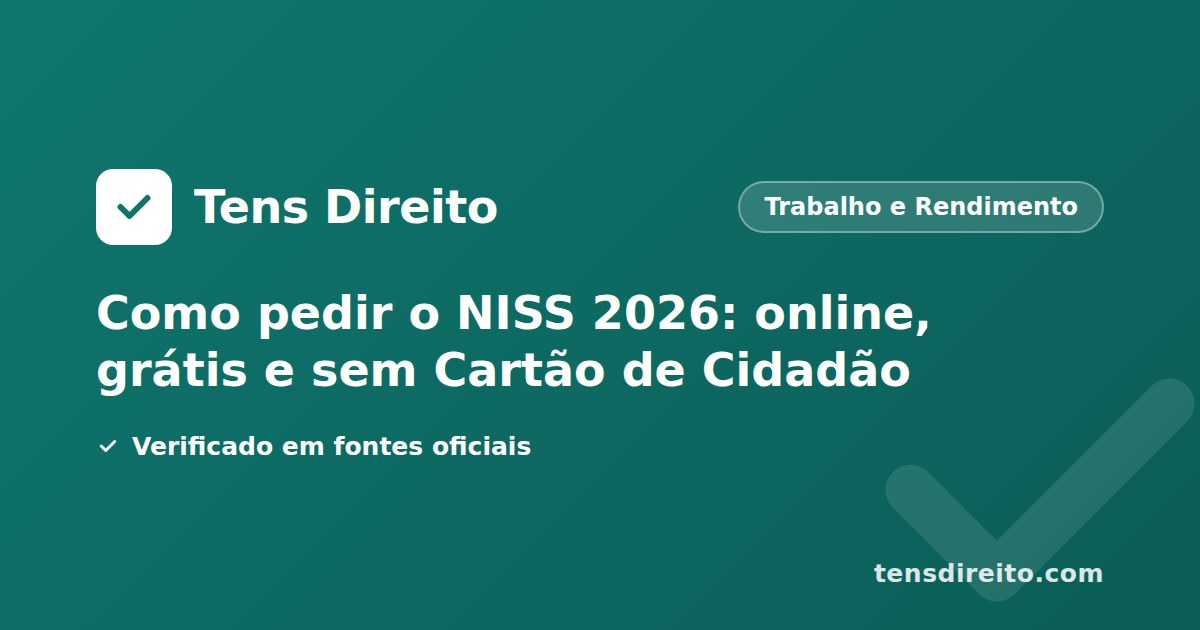
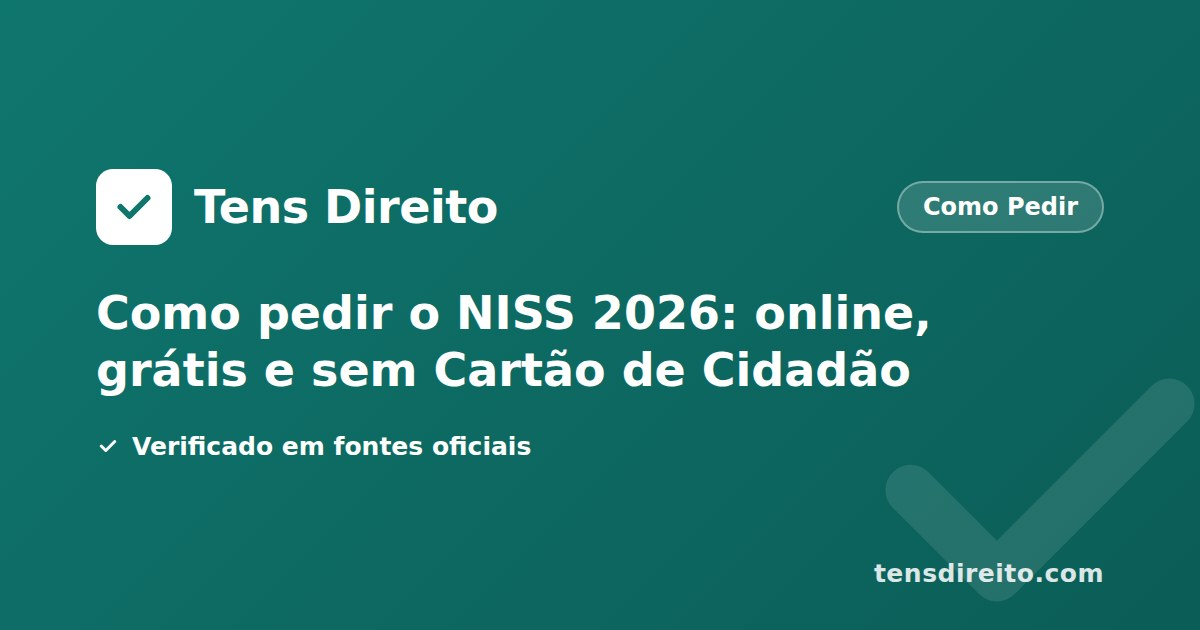
Migra como-pedir-niss.html e declaracao-situacao-contributiva.html para o cluster Como Pedir
Ambas passam de "Trabalho e Rendimento" para "Como Pedir" em
data/clusters.json — breadcrumb visível, JSON-LD BreadcrumbList,
CLUSTER-BADGE, RELACIONADOS e imagem OG (chip do cluster) actualizados.
As duas já tinham o bloco "Para que vais precisar disto"-equivalente
(SPEC secção 5). p/trabalho-rendimento.html perde as 2 páginas do seu
PILLAR-LISTA/PILLAR-JSONLD (8→6 itens), regenerado automaticamente por
sincronizar_clusters.py.

Changed region(s): [[0.6167, 0.2714, 0.8942, 0.3921]]

diff --git a/declaracao-situacao-contributiva.html b/declaracao-situacao-contributiva.html
@@ -164,8 +164,8 @@
       {
         "@type": "ListItem",
         "position": 2,
-        "name": "Trabalho e Rendimento",
-        "item": "https://tensdireito.com/p/trabalho-rendimento.html"
+        "name": "Como Pedir",
+        "item": "https://tensdireito.com/p/como-pedir.html"
       },
       {
         "@type": "ListItem",
@@ -291,6 +291,7 @@ footer a{color:#5C6770}
         <a href="/calendario-pagamentos-seguranca-social.html">📅 Calendário</a>
         <a href="/simuladores.html">🧮 Simuladores</a>
         <a href="/documentos.html">📄 Documentos</a>
+        <a href="/p/como-pedir.html">🔑 Como Pedir</a>
         <a href="/noticias.html">Notícias</a>
       </div>
 
@@ -326,6 +327,7 @@ footer a{color:#5C6770}
       <a href="/calendario-pagamentos-seguranca-social.html">📅 Calendário</a>
       <a href="/simuladores.html">🧮 Simuladores</a>
       <a href="/documentos.html">📄 Documentos</a>
+      <a href="/p/como-pedir.html">🔑 Como Pedir</a>
       <a href="/noticias.html">Notícias</a>
     </div>
   </div>
@@ -334,8 +336,8 @@ footer a{color:#5C6770}
   <header class="hero">
     <div class="hero-inner">
       <!-- CLUSTER-BADGE:INICIO -->
-    <nav class="breadcrumb-visivel" aria-label="Breadcrumb"><a href="/">Início</a> › <a href="/p/trabalho-rendimento.html">Trabalho e Rendimento</a> › <span>Declaração de situação contributiva</span></nav>
-    <p class="pertence-guia">Este artigo pertence ao guia <a href="/p/trabalho-rendimento.html">Trabalho e Rendimento</a>.</p>
+    <nav class="breadcrumb-visivel" aria-label="Breadcrumb"><a href="/">Início</a> › <a href="/p/como-pedir.html">Como Pedir</a> › <span>Declaração de situação contributiva</span></nav>
+    <p class="pertence-guia">Este artigo pertence ao guia <a href="/p/como-pedir.html">Como Pedir</a>.</p>
   <!-- CLUSTER-BADGE:FIM -->
       <h1>Declaração de situação contributiva 2026</h1>
 <!-- partilhar:inicio -->
@@ -560,10 +562,10 @@ footer a{color:#5C6770}
     <div class="cluster-relacionados">
       <h2>Artigos relacionados</h2>
       <ul>
-        <li><a href="/subsidio-desemprego.html">Subsídio de desemprego</a></li>
-        <li><a href="/rsi.html">RSI — Rendimento Social de Inserção</a></li>
-        <li><a href="/baixa-medica-subsidio-doenca.html">Baixa médica e subsídio de doença</a></li>
-        <li><a href="/simulador-subsidio-doenca.html">Simulador de Subsídio de Doença</a></li>
+        <li><a href="/senha-seguranca-social-direta.html">Como pedir (e recuperar) a senha da Segurança Social Direta</a></li>
+        <li><a href="/iban-seguranca-social.html">Como alterar o IBAN na Segurança Social</a></li>
+        <li><a href="/chave-movel-digital.html">Como ativar a Chave Móvel Digital</a></li>
+        <li><a href="/como-pedir-niss.html">Como pedir o NISS</a></li>
       </ul>
       <p class="relacionados-noticias"><a href="/noticias.html">Ver todas as atualizações →</a></p>
     </div>

diff --git a/como-pedir-niss.html b/como-pedir-niss.html
@@ -164,8 +164,8 @@
       {
         "@type": "ListItem",
         "position": 2,
-        "name": "Trabalho e Rendimento",
-        "item": "https://tensdireito.com/p/trabalho-rendimento.html"
+        "name": "Como Pedir",
+        "item": "https://tensdireito.com/p/como-pedir.html"
       },
       {
         "@type": "ListItem",
@@ -291,6 +291,7 @@ footer a{color:#5C6770}
         <a href="/calendario-pagamentos-seguranca-social.html">📅 Calendário</a>
         <a href="/simuladores.html">🧮 Simuladores</a>
         <a href="/documentos.html">📄 Documentos</a>
+        <a href="/p/como-pedir.html">🔑 Como Pedir</a>
         <a href="/noticias.html">Notícias</a>
       </div>
 
@@ -326,6 +327,7 @@ footer a{color:#5C6770}
       <a href="/calendario-pagamentos-seguranca-social.html">📅 Calendário</a>
       <a href="/simuladores.html">🧮 Simuladores</a>
       <a href="/documentos.html">📄 Documentos</a>
+      <a href="/p/como-pedir.html">🔑 Como Pedir</a>
       <a href="/noticias.html">Notícias</a>
     </div>
   </div>
@@ -334,8 +336,8 @@ footer a{color:#5C6770}
   <header class="hero">
     <div class="hero-inner">
       <!-- CLUSTER-BADGE:INICIO -->
-    <nav class="breadcrumb-visivel" aria-label="Breadcrumb"><a href="/">Início</a> › <a href="/p/trabalho-rendimento.html">Trabalho e Rendimento</a> › <span>Como pedir o NISS</span></nav>
-    <p class="pertence-guia">Este artigo pertence ao guia <a href="/p/trabalho-rendimento.html">Trabalho e Rendimento</a>.</p>
+    <nav class="breadcrumb-visivel" aria-label="Breadcrumb"><a href="/">Início</a> › <a href="/p/como-pedir.html">Como Pedir</a> › <span>Como pedir o NISS</span></nav>
+    <p class="pertence-guia">Este artigo pertence ao guia <a href="/p/como-pedir.html">Como Pedir</a>.</p>
   <!-- CLUSTER-BADGE:FIM -->
       <h1>Como pedir o NISS 2026</h1>
 <!-- partilhar:inicio -->
@@ -581,10 +583,10 @@ footer a{color:#5C6770}
     <div class="cluster-relacionados">
       <h2>Artigos relacionados</h2>
       <ul>
-        <li><a href="/subsidio-desemprego.html">Subsídio de desemprego</a></li>
-        <li><a href="/rsi.html">RSI — Rendimento Social de Inserção</a></li>
-        <li><a href="/baixa-medica-subsidio-doenca.html">Baixa médica e subsídio de doença</a></li>
-        <li><a href="/simulador-subsidio-doenca.html">Simulador de Subsídio de Doença</a></li>
+        <li><a href="/senha-seguranca-social-direta.html">Como pedir (e recuperar) a senha da Segurança Social Direta</a></li>
+        <li><a href="/iban-seguranca-social.html">Como alterar o IBAN na Segurança Social</a></li>
+        <li><a href="/chave-movel-digital.html">Como ativar a Chave Móvel Digital</a></li>
+        <li><a href="/declaracao-situacao-contributiva.html">Declaração de situação contributiva</a></li>
       </ul>
       <p class="relacionados-noticias"><a href="/noticias.html">Ver todas as atualizações →</a></p>
     </div>

diff --git a/p/trabalho-rendimento.html b/p/trabalho-rendimento.html
@@ -152,7 +152,7 @@
     },
     "mainEntity": {
       "@type": "ItemList",
-      "numberOfItems": 8,
+      "numberOfItems": 6,
       "itemListElement": [
         {
           "@type": "ListItem",
@@ -189,18 +189,6 @@
           "position": 6,
           "url": "https://tensdireito.com/simulador-subsidio-desemprego.html",
           "name": "Simulador do Subsídio de Desemprego"
-        },
-        {
-          "@type": "ListItem",
-          "position": 7,
-          "url": "https://tensdireito.com/como-pedir-niss.html",
-          "name": "Como pedir o NISS"
-        },
-        {
-          "@type": "ListItem",
-          "position": 8,
-          "url": "https://tensdireito.com/declaracao-situacao-contributiva.html",
-          "name": "Declaração de situação contributiva"
         }
       ]
     }
@@ -238,6 +226,7 @@
         <a href="/calendario-pagamentos-seguranca-social.html">📅 Calendário</a>
         <a href="/simuladores.html">🧮 Simuladores</a>
         <a href="/documentos.html">📄 Documentos</a>
+        <a href="/p/como-pedir.html">🔑 Como Pedir</a>
         <a href="/noticias.html">Notícias</a>
       </div>
 
@@ -273,6 +262,7 @@
       <a href="/calendario-pagamentos-seguranca-social.html">📅 Calendário</a>
       <a href="/simuladores.html">🧮 Simuladores</a>
       <a href="/documentos.html">📄 Documentos</a>
+      <a href="/p/como-pedir.html">🔑 Como Pedir</a>
       <a href="/noticias.html">Notícias</a>
     </div>
   </div>
@@ -350,8 +340,6 @@
       <li><a href="/simulador-subsidio-doenca.html">Simulador de Subsídio de Doença</a> <span class="badge">Ferramenta</span></li>
       <li><a href="/simulador-rsi.html">Simulador do RSI</a> <span class="badge">Ferramenta</span></li>
       <li><a href="/simulador-subsidio-desemprego.html">Simulador do Subsídio de Desemprego</a> <span class="badge">Ferramenta</span></li>
-      <li><a href="/como-pedir-niss.html">Como pedir o NISS</a></li>
-      <li><a href="/declaracao-situacao-contributiva.html">Declaração de situação contributiva</a></li>
   <!-- PILLAR-LISTA:FIM -->
     </ul>
   </div>
